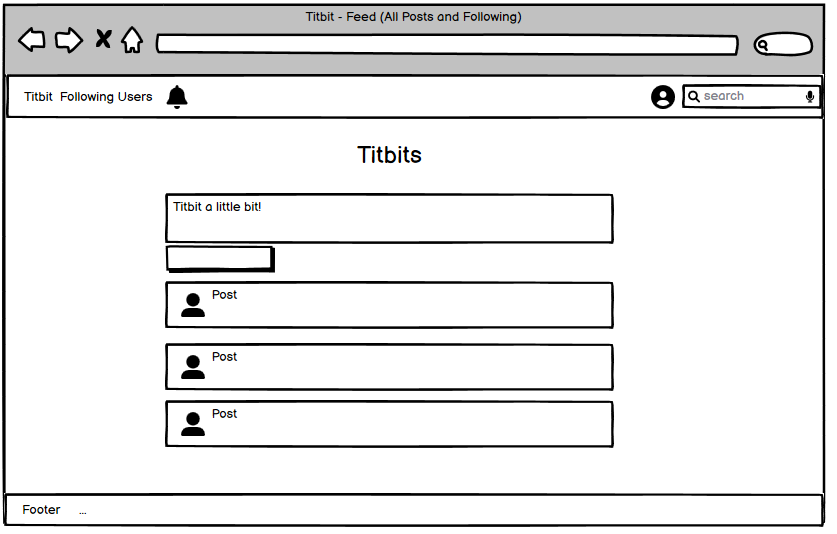
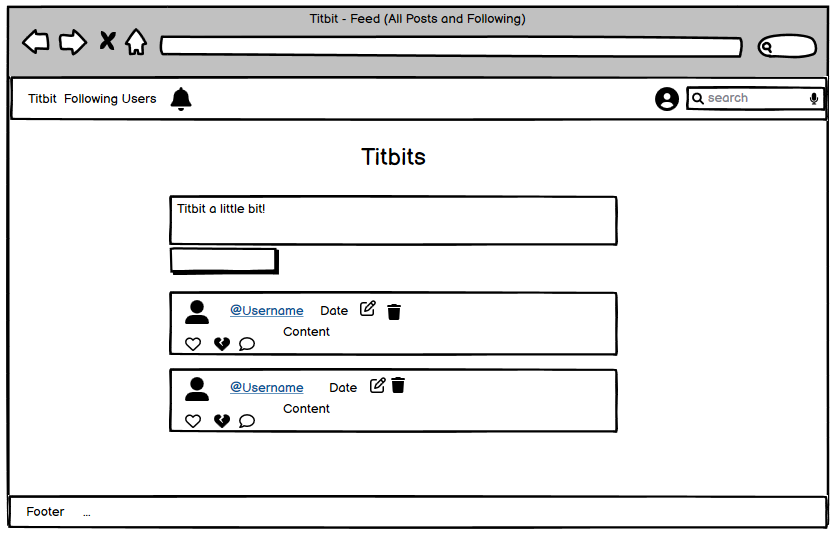
Docs: add wireframes from ipad and mobile

Changed region(s): [[0.0, 0.0, 0.994, 0.9888], [0.1864, 0.3596, 0.7455, 0.839], [0.4038, 0.2697, 0.5281, 0.3296]]

diff --git a/README.md b/README.md
@@ -275,52 +275,93 @@ Wireframes were created for mobile, tablet and desktop using [Balsamiq](https://
 #### Home Page (Landing Page)
 The home page is the landing page that the user will access if he has not yet started a Titbit session, i.e. if the user is not logged in.
 
-![Home Page](documentation/wireframes/w-home.png)
+| Desktop | Tablet | Mobile |
+| --- | --- | --- |
+| ![Home Page](documentation/wireframes/w-home.png) | ![Home Page](documentation/wireframes/w-home-ipad.png)| ![Home Page](documentation/wireframes/w-home-mobile.png) |
 
-#### Sing Up, sing In and Change Password
-There's a form according to the purpose of the page, but the layout are the same
 
-![Sing Up, sing In and Change Password](documentation/wireframes/w-singup.png)
+
+#### Sing Up, Sing In and Change Password
+There's a form according to the purpose of the page, but the layout are the same.
+
+| Desktop | Tablet | Mobile |
+| --- | --- | --- |
+| ![Sing Up, sing In and Change Password](documentation/wireframes/w-singup.png) | ![Sing Up, sing In and Change Password](documentation/wireframes/w-singup-ipad.png)| ![Sing Up, sing In and Change Password](documentation/wireframes/w-singup-mobile.png)|
+
+
 
 #### Sing Out
 There's a confirmation to avoid mistakes.
 
-![Sing Out](documentation/wireframes/w-singout.png)
+| Desktop | Tablet | Mobile |
+| --- | --- | --- |
+| ![Sing Out](documentation/wireframes/w-singout.png) | ![Sing Out](documentation/wireframes/w-singout-ipad.png)| ![Sing Out](documentation/wireframes/w-singout-mobile.png)|
+
 
 #### Profile
 
-![Profile Page](documentation/wireframes/w-profile.png)
+| Desktop | Tablet | Mobile |
+| --- | --- | --- |
+| ![Profile Page](documentation/wireframes/w-profile.png) | ![Profile Page](documentation/wireframes/w-profile-ipad.png)| ![Profile Page](documentation/wireframes/w-profile-mobile.png)|
+
+
 
 #### Edit Profile
 
-![Edit Profile Page](documentation/wireframes/w-update-profile.png)
+| Desktop | Tablet | Mobile |
+| --- | --- | --- |
+| ![Edit Profile Page](documentation/wireframes/w-update-profile.png) | ![Edit Profile Page](documentation/wireframes/w-update-profile-ipad.png)| ![Edit Profile Page](documentation/wireframes/w-update-profile-mobile.png)|
+
 
 #### Search Result, Users and Followers
+
 User results list as required.
 
-![Profile Page](documentation/wireframes/w-users.png)
+| Desktop | Tablet | Mobile |
+| --- | --- | --- |
+| ![Profile Page](documentation/wireframes/w-users.png) | ![Profile Page](documentation/wireframes/w-users-ipad.png)| ![Profile Page](documentation/wireframes/w-users-mobile.png)|
 
-#### All Posts and Following 
 
-![All Posts and Following](documentation/wireframes/w-feed.png)
+#### All Posts and Following Feed
+
+The posts have the same layout regardless of the page that will be displayed. 
+
+The two feed pages have the same layout, except that on the following page there is no form to post new titbits.
+
+![Post layout](documentation/wireframes/w-post.png)
+
+| Desktop | Tablet | Mobile |
+| --- | --- | --- |
+| ![All Posts and Following](documentation/wireframes/w-feed.png) | ![All Posts and Following](documentation/wireframes/w-feed-ipad.png) | ![All Posts and Following](documentation/wireframes/w-feed-mobile.png) |
 
 
 #### Post Detail
 
-![Post Detail Page](documentation/wireframes/w-post-detail.png)
+| Desktop | Tablet | Mobile |
+| --- | --- | --- |
+| ![Post Detail Page](documentation/wireframes/w-post-detail.png) | ![Post Detail Page](documentation/wireframes/w-post-detail-ipad.png) | ![Post Detail Page](documentation/wireframes/w-post-detail-mobile.png) |
+
 
 #### Delete Confirmation
 
-![Delete Confirmation](documentation/wireframes/w-delete.png)
+| Desktop | Tablet | Mobile |
+| --- | --- | --- |
+| ![Delete Confirmation](documentation/wireframes/w-delete.png) | ![Delete Confirmation](documentation/wireframes/w-delete-ipad.png) | ![Delete Confirmation](documentation/wireframes/w-delete-mobile.png) |
+
+
 
 #### Edit Post and Comment
 
-![Edit Post and Comment](documentation/wireframes/w-edit.png)
+| Desktop | Tablet | Mobile |
+| --- | --- | --- |
+| ![Edit Post and Comment](documentation/wireframes/w-edit.png) | ![Edit Post and Comment](documentation/wireframes/w-edit-ipad.png) | ![Edit Post and Comment](documentation/wireframes/w-edit-mobile.png) |
 
 
 #### Error Pages
 
-![Error Pages](documentation/wireframes/w-error.png)
+| Desktop | Tablet | Mobile |
+| --- | --- | --- |
+| ![Error Pages](documentation/wireframes/w-error.png) | ![Error Pages](documentation/wireframes/w-error-ipad.png) | ![Error Pages](documentation/wireframes/w-error-mobile.png) |
 
 
 - - - 
@@ -594,7 +635,7 @@ Error 403
 
 Error 404
 
-![Error 404](documentation/images/error404.png)
+![Error 404](documentation/images/error-404.png)
 
 Error 405
 
@@ -637,6 +678,7 @@ Due to responsiveness, a hamburger menu is used.
 Clicking on the user icon, the user can access your own profile and sign out.
 
 * User dropdown menu
+
 ![User dropdown menu](documentation/images/user-icon.png)
 
 * **Footer** 
@@ -747,16 +789,18 @@ Besides the features were registered as Won't Have in the MoSCoW prioritization 
 
 * Add calendar to birth date.
 * Apply paginator on Post Detail Page.
-* Prepopulate the login fields after a user registers on the site and is redirected to the login page - this is good UX as we shouldn't expect a user to fill in the form with information we already have. 
-* Business Profile.
-* Advertisements.
-* App for smartphones.
-* Refactor the like and dislike code for front-end to avoid rendering.
-* Events page.
-* 
+* Prepopulate the login fields after a user registers on the site and is redirected to the login page - this is good UX as we shouldn't expect a user to fill in the form with information we already have.
+* Buildin Photo Editor
+* Business Profile
+* Advertisements
+* App for smartphones
+* Refactor the like and dislike code for front-end to avoid rendering
+* Events page
+
 
 ###  Accessibility
 🗣
+
 I have been mindful during coding to ensure that the website is as accessible friendly as possible. This has been have achieved by:
 
 * Using semantic HTML.
